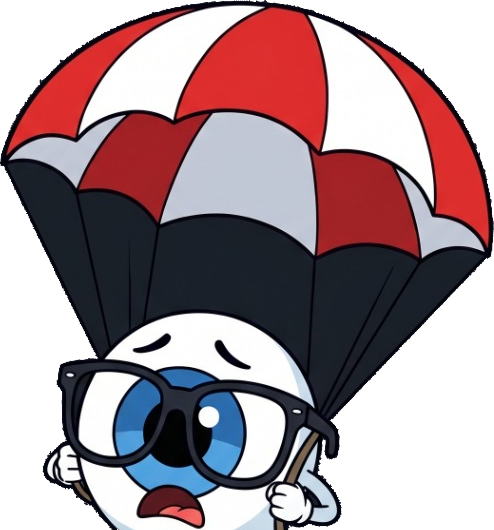
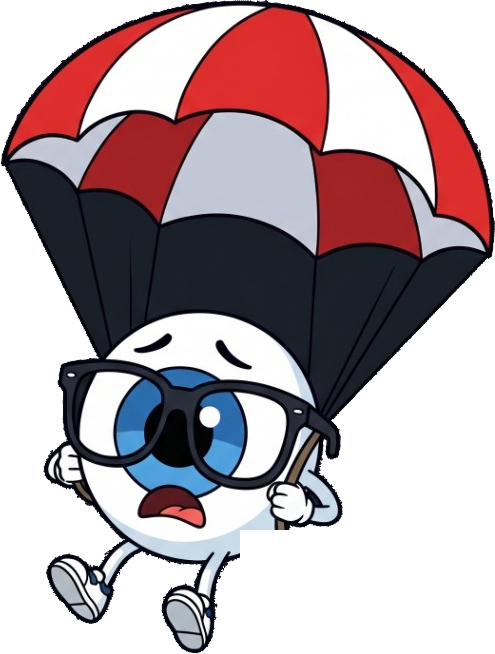
Restaurar cuerpo completo con piernas y zapatillas en ojito-parachute y remover zapatito flotante en ojito-run

diff --git a/code.html b/code.html
@@ -1932,6 +1932,10 @@
     if (spriteSad) spriteSad.classList.toggle('hidden', name !== 'sad');
     if (spriteBored) spriteBored.classList.toggle('hidden', name !== 'bored');
     if (spriteCar) spriteCar.classList.toggle('hidden', name !== 'car');
+
+    if (bubble && bubble.style.top === 'auto') {
+      bubble.style.bottom = name === 'parachute' ? '152px' : '112px';
+    }
   }
 
   // Anchor and tail management for speech bubble so text NEVER clips off-screen

diff --git a/index.html b/index.html
@@ -1932,6 +1932,10 @@
     if (spriteSad) spriteSad.classList.toggle('hidden', name !== 'sad');
     if (spriteBored) spriteBored.classList.toggle('hidden', name !== 'bored');
     if (spriteCar) spriteCar.classList.toggle('hidden', name !== 'car');
+
+    if (bubble && bubble.style.top === 'auto') {
+      bubble.style.bottom = name === 'parachute' ? '152px' : '112px';
+    }
   }
 
   // Anchor and tail management for speech bubble so text NEVER clips off-screen
